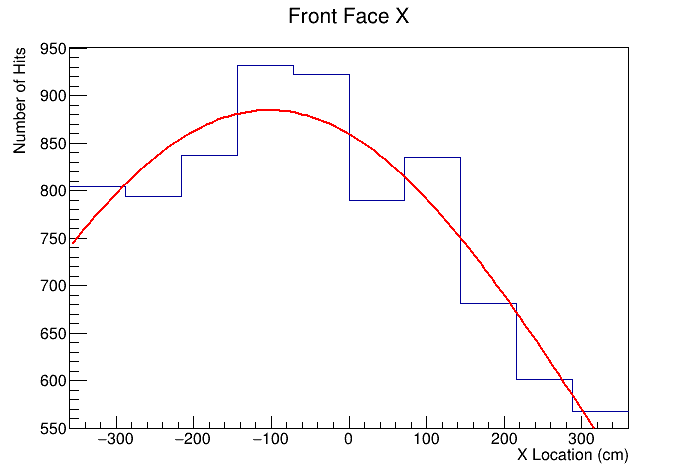
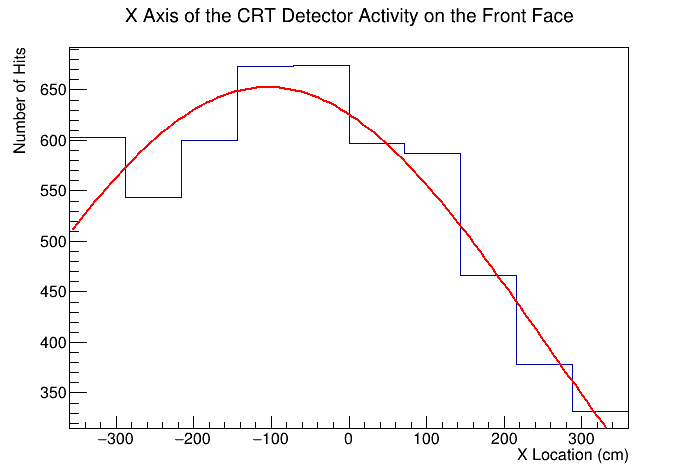
All Data, renamed for poster purposes.

diff --git a/CRT_Dataset2/AllDataUpdate.C b/CRT_Dataset2/AllDataUpdate.C
@@ -129,7 +129,11 @@ void fit_gaussian2D(TH2F* histogram) {
 
 void AllDataUpdate() {
 	TChain chain("crtana/tree"); // Ensure "myTree" is the correct name of your TTree
-	chain.Add("/pnfs/sbnd/persistent/users/hlay/crt_comm_summer_2024/run*_crtana_22jul2024.root"); // Replace with your file path pattern
+	chain.Add("/pnfs/sbnd/persistent/users/hlay/crt_comm_summer_2024/run13688_crtana_22jul2024.root");
+	chain.Add("/pnfs/sbnd/persistent/users/hlay/crt_comm_summer_2024/run13689_crtana_22jul2024.root");
+	chain.Add("/pnfs/sbnd/persistent/users/hlay/crt_comm_summer_2024/run13690_crtana_22jul2024.root");
+	chain.Add("/pnfs/sbnd/persistent/users/hlay/crt_comm_summer_2024/run13693_crtana_22jul2024.root");
+	chain.Add("/pnfs/sbnd/persistent/users/hlay/crt_comm_summer_2024/run13758_crtana_22jul2024.root"); // Replace with your file path pattern
 	TH1F *histogram1_f_nb = new TH1F("histogram1_f_nb", "Front Face X;No Beam", 10, -360, 360);
 	histogram1_f_nb->GetXaxis()->SetTitle("X Location (cm)");
     	histogram1_f_nb->GetYaxis()->SetTitle("Number of Hits");
@@ -142,15 +146,15 @@ void AllDataUpdate() {
 	histogram3_f_nb->GetXaxis()->SetTitle("X Location (cm)");
         histogram3_f_nb->GetYaxis()->SetTitle("Y Location (cm)");
 
-	TH1F *histogram4_f_tc = new TH1F("histogram4_f_tc", "Front Face X; Time Cut", 10, -360, 360);
+	TH1F *histogram4_f_tc = new TH1F("histogram4_f_tc", "X Axis of the CRT Detector Activity on the Front Face", 10, -360, 360);
         histogram4_f_tc->GetXaxis()->SetTitle("X Location (cm)");
         histogram4_f_tc->GetYaxis()->SetTitle("Number of Hits");
 
-	TH1F *histogram5_f_tc = new TH1F("histogram5_f_tc", "Front Face Y; Time Cut", 10, -360, 360);
+	TH1F *histogram5_f_tc = new TH1F("histogram5_f_tc", "Y Axis of the CRT Detector Activity on the Front Face", 10, -360, 360);
         histogram5_f_tc->GetXaxis()->SetTitle("Y Location (cm)");
         histogram5_f_tc->GetYaxis()->SetTitle("Number of Hits");
 
-	TH2F *histogram6_f_tc = new TH2F("histogram6_f_tc", "Front Face XY; Time Cut", 10, -360, 360, 10, -360, 360);
+	TH2F *histogram6_f_tc = new TH2F("histogram6_f_tc", "2D Visualization of the Detector Activity on the CRT Front Face", 10, -360, 360, 10, -360, 360);
 	histogram6_f_tc->GetXaxis()->SetTitle("X Location (cm)");
         histogram6_f_tc->GetYaxis()->SetTitle("Y Location (cm)");
 	//histogram6_f_tc->SetContour(contours.size(), contours.data());
@@ -161,7 +165,7 @@ void AllDataUpdate() {
 	TCanvas *c4_f_tc = new TCanvas("c4_f_tc", "Front Face X TC");
         TCanvas *c5_f_tc = new TCanvas("c5_f_tc", "Front Face Y TC");
         TCanvas *c6_f_tc = new TCanvas("c6_f_tc", "Front Face XY TC");
-	TCanvas *c7_f_ob = new TCanvas("c7_f_ob", "Front Face X OB");
+	TCanvas *c7_f_ob = new TCanvas("c7_f_ob", "Detector Front Face X OB");
         TCanvas *c8_f_ob = new TCanvas("c8_f_ob", "Front Face Y OB");
         TCanvas *c9_f_ob = new TCanvas("c9_f_ob", "Front Face XY OB");
 	TCanvas *c10_f_nb_scaled = new TCanvas("c10_f_nb_scaled", "Front Face X NB Scaled");
@@ -207,7 +211,7 @@ void AllDataUpdate() {
                    		 	}
                		 	}
            	 	}
-			if ((0 < t1 && t1 < 1530e3) || (1533e3 < t1 && t1 < 1000e6)) {
+			if (1527e3 < t1 && t1 < 1530e3) { // || (1533e3 < t1 && t1 < 1536e3)) {
                 		if (y > -360 && -360 < x && x < 360) {  // cut off feet of detector
                     			if (-200 < z && z < -100) {
                         			histogram1_f_nb->Fill(x);
@@ -229,9 +233,9 @@ void AllDataUpdate() {
         double no_spill = total_time - spill_time;
         double weight = spill_time / no_spill;
 
-	histogram1_f_nb->Scale(weight);
-	histogram2_f_nb->Scale(weight);
-	histogram3_f_nb->Scale(weight);
+//	histogram1_f_nb->Scale(weight);
+//	histogram2_f_nb->Scale(weight);
+//	histogram3_f_nb->Scale(weight);
 
 	TH1F *histogramx = (TH1F*)histogram4_f_tc->Clone("histogramx");
         histogramx->Add(histogram1_f_nb, -1.0);
@@ -280,33 +284,33 @@ void AllDataUpdate() {
         histogramxy->Draw("COLZ");
         fit_gaussian2D(histogramxy);
 
-	c10_f_nb_scaled->cd();
-    	histogram1_f_nb->Draw("HIST");
-    	c11_f_nb_scaled->cd();
-    	histogram2_f_nb->Draw("HIST");
+//	c10_f_nb_scaled->cd();
+//    	histogram1_f_nb->Draw("HIST");
+//    	c11_f_nb_scaled->cd();
+//    	histogram2_f_nb->Draw("HIST");
     	//c12_f_nb_scaled->cd();
     	//histogram3_f_nb->Draw("COLZ");
 
-	TCanvas *c_overlay = new TCanvas("c_overlay", "Y Face Time Cut Compared to Cosmic Ray Background");
-    	histogram5_f_tc->SetLineColor(kBlue);  // Set the color of the first histogram
-    	histogram5_f_tc->Draw("HIST");
-   	histogram2_f_nb->SetLineColor(kRed);  // Set the color of the second histogram
-    	histogram2_f_nb->SetLineStyle(2);
-	histogram2_f_nb->Draw("HIST SAME");  // Draw the second histogram on the same canvas
+//	TCanvas *c_overlay = new TCanvas("c_overlay", "Y Face Time Cut Compared to Cosmic Ray Background");
+//    	histogram5_f_tc->SetLineColor(kBlue);  // Set the color of the first histogram
+//    	histogram5_f_tc->Draw("HIST");
+//   	histogram2_f_nb->SetLineColor(kRed);  // Set the color of the second histogram
+//    	histogram2_f_nb->SetLineStyle(2);
+//	histogram2_f_nb->Draw("HIST SAME");  // Draw the second histogram on the same canvas
 
 
 
-	c1_f_nb->SaveAs("NewData_Front_face_x_nb.png");
-    	c2_f_nb->SaveAs("NewData_Front_face_y_nb.png");
-    	c3_f_nb->SaveAs("NewData_Front_face_nb.png");
-	c4_f_tc->SaveAs("NewData_Front_face_x_tc.png");
-        c5_f_tc->SaveAs("NewData_Front_face_y_tc.png");
-        c6_f_tc->SaveAs("NewData_Front_face_tc.png");
+//	c1_f_nb->SaveAs("NewData_Front_face_x_nb.png");
+//    	c2_f_nb->SaveAs("NewData_Front_face_y_nb.png");
+//    	c3_f_nb->SaveAs("NewData_Front_face_nb.png");
+//	c4_f_tc->SaveAs("NewData_Front_face_x_tc.png");
+//        c5_f_tc->SaveAs("NewData_Front_face_y_tc.png");
+//        c6_f_tc->SaveAs("NewData_Front_face_tc.png");
 	c7_f_ob->SaveAs("NewData_Front_face_x_ob.png");
         c8_f_ob->SaveAs("NewData_Front_face_y_ob.png");
         c9_f_ob->SaveAs("NewData_Front_face_ob.png");
-	c10_f_nb_scaled->SaveAs("Scaled_Front_face_x_nb.png");
-	c11_f_nb_scaled->SaveAs("Scaled_Front_face_y_nb.png");
-	c_overlay->SaveAs("NewData_Y_overlay.png");
+//	c10_f_nb_scaled->SaveAs("Scaled_Front_face_x_nb.png");
+//	c11_f_nb_scaled->SaveAs("Scaled_Front_face_y_nb.png");
+//	c_overlay->SaveAs("NewData_Y_overlay.png");
 }
 
